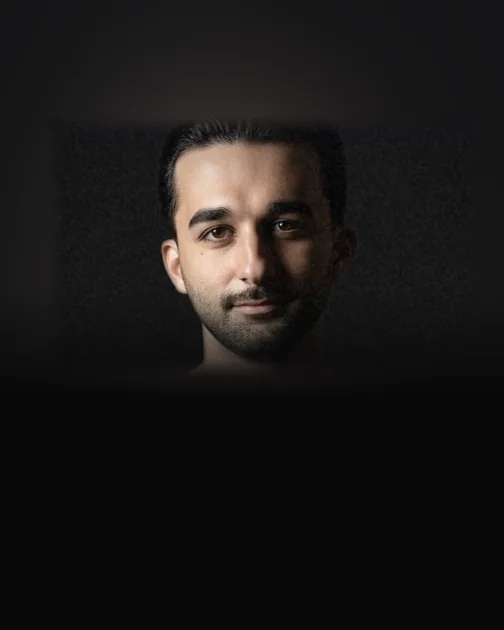
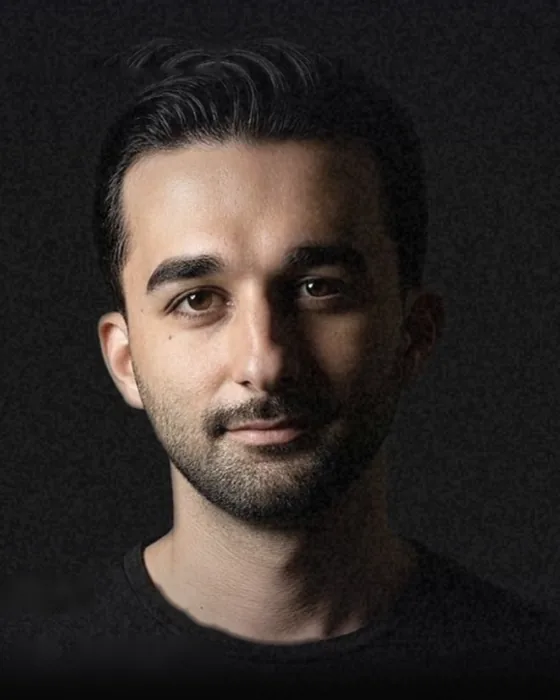
ASMBLY: even lineup portraits in taller 4:5 cards (#19)
* asmbly: recrop cover-based lineup portraits from real photo pixels

Sehun, Wilfred, Robleh, Amir and Geoffrey were framed with a blurred
background extension that showed as a box around a small head. Crop them
inside the clean photo area instead, at one shared head size and crown
position, with a short fade into the card at the bottom. Version the
image URLs so cached copies refresh.

Claude-Session: https://claude.ai/code/session_015vvedEEUJEY2Xconp5SVWz

* asmbly: square lineup cards with one shared portrait framing

The 4:5 card left the cover-based portraits with dark space under the
shoulders. Make the image square and recrop every headshot (Sophie,
Sehun, Wilfred, Andrew, Robleh, Amir, Pursuit Grooves, Alex, Geoffrey)
to the same framing: crown at 7%, chin at 86%, 600px. Scene shots keep
their centre crop.

On screens up to 760px the open bio now covers the whole card, since the
square is too short for it, and the name block fades out behind it.
Between 1001px and 1240px the bio text steps down to 13px so it fits.

Claude-Session: https://claude.ai/code/session_015vvedEEUJEY2Xconp5SVWz

* asmbly: taller 4:5 lineup cards, zoomed-out centred portraits

Back to a 4:5 image with every headshot recropped to one framing: crown
at 10% from the top, chin at 72%, head centred. Sophie, Andrew and
Wilfred get a little extra room because their tilted heads read larger.

The cover-based portraits (Sehun, Wilfred, Robleh, Amir, Geoffrey) need
[…]

Changed region(s): [[0.0, 0.1206, 0.6548, 0.9349], [0.6548, 0.6635, 0.744, 0.8444], [0.625, 0.2413, 0.6845, 0.3619]]

diff --git a/public/asmbly/index.html b/public/asmbly/index.html
@@ -357,7 +357,7 @@
   /* Lineup TBA */
   .lineup { display: grid; grid-template-columns: repeat(4, 1fr); gap: 1px; background: var(--line); border: 1px solid var(--line); }
   .card { background: var(--bg); position: relative; overflow: hidden; }
-  .card__img { aspect-ratio: 4/5; position: relative; overflow: hidden; background: #0a0a0a; }
+  .card__img { aspect-ratio: 4 / 5; position: relative; overflow: hidden; background: #0a0a0a; }
   .card__img img { width: 100%; height: 100%; object-fit: cover; filter: grayscale(1) contrast(1.2) brightness(.55) blur(6px); transform: scale(1.12); transition: filter .7s ease, transform 1.2s ease; }
   .card:hover .card__img img { filter: grayscale(0) contrast(1.1) brightness(.85) blur(0); transform: scale(1.02); }
   .card__img::after { content: ""; position: absolute; inset: 0; background: repeating-linear-gradient(0deg, rgba(0,0,0,.4) 0 2px, transparent 2px 4px); mix-blend-mode: multiply; }
@@ -394,6 +394,15 @@
   .card__role { margin-top: 10px; color: var(--grey); }
   .lineup-note { display: flex; justify-content: space-between; align-items: center; gap: 20px; flex-wrap: wrap; margin-top: 28px; }
   @media (max-width: 1000px) { .lineup { grid-template-columns: repeat(2, 1fr); } }
+  @media (min-width: 1001px) and (max-width: 1240px) { .card__bio { padding: 16px 16px; gap: 8px; } .card__bio p { font-size: 13px; line-height: 1.38; } }
+  /* Narrow screens: the portrait is too short for a bio, so the open bio covers the whole card (photo + name) */
+  @media (max-width: 760px) {
+    .card__img { position: static; }
+    .card__img::after, .card--revealed .card__img::before { inset: 0 0 auto 0; aspect-ratio: 4 / 5; }
+    .card__bio { background: linear-gradient(to top, rgba(5,5,5,.97) 0%, rgba(5,5,5,.94) 50%, rgba(5,5,5,.4) 72%, rgba(5,5,5,0) 88%); }
+    .card__body > * { transition: opacity .3s ease; }
+    .card--revealed:is(.is-active, :has(:focus-visible)) .card__body > * { opacity: 0; }
+  }
   @media (max-width: 480px) { .card__name { font-size: 18px; } .card__body { padding: 14px; } .card__ig { font-size: 11px; letter-spacing: .04em; } .card__bio { padding: 14px 12px; gap: 6px; } .card__bio p { font-size: 12px; line-height: 1.35; } .card__bio span { font-size: 9px; } }
 
   /* Venue horizontal scroll */
@@ -872,18 +881,18 @@ document.addEventListener('click', (e) => {
       <span class="eyebrow">Decrypting soon</span>
     </div>
     <div class="lineup">
-      <article class="card card--revealed"><div class="card__img"><img decoding="async" src="/asmbly/img/sophie-hospes-s.webp" alt="Sophie Hospes" loading="lazy" /><div class="card__bio" aria-hidden="true"><span class="mono">About</span><p>Creative director based in Malmö. Through Studio Sophie Hospes and as Creative Director at New Limit Labs, she builds brand worlds across campaigns, product design and AI-powered creative systems.</p></div></div><div class="card__body"><div class="card__name">Sophie Hospes</div><div class="card__role mono">Speaker · The future of creative work</div><a class="card__ig mono" href="https://www.instagram.com/studiosophiehospes/" target="_blank" rel="noopener" aria-label="Sophie Hospes on Instagram">@studiosophiehospes ↗</a></div></article>
-      <article class="card card--revealed"><div class="card__img"><img decoding="async" src="/asmbly/img/sehun-choi-s.webp" alt="Sehun Choi" loading="lazy" /><div class="card__bio" aria-hidden="true"><span class="mono">About</span><p>Seoul-based artist working with generative AI across image, film and large-scale installation, with work for brands including OpenAI, Samsung and LG Electronics.</p></div></div><div class="card__body"><div class="card__name">Sehun Choi</div><div class="card__role mono">Speaker · Artist talk</div><a class="card__ig mono" href="https://www.instagram.com/se.hunchoi/" target="_blank" rel="noopener" aria-label="Sehun Choi: @se.hunchoi">@se.hunchoi ↗</a></div></article>
-      <article class="card card--revealed"><div class="card__img"><img decoding="async" src="/asmbly/img/wilfred-lee-s.webp" alt="Wilfred Lee" loading="lazy" /><div class="card__bio" aria-hidden="true"><span class="mono">About</span><p>Toronto AI filmmaker, worldbuilder and educator. Founder of Artist's Journey and GenTO, he brings storytelling, generative tools and community together into finished work.</p></div></div><div class="card__body"><div class="card__name">Wilfred Lee</div><div class="card__role mono">Panelist · The future of entertainment</div><a class="card__ig mono" href="https://www.instagram.com/theartistsjourney/" target="_blank" rel="noopener" aria-label="Wilfred Lee on Instagram">@theartistsjourney ↗</a></div></article>
-      <article class="card card--revealed"><div class="card__img"><img decoding="async" src="/asmbly/img/andrew-macdonald-s.webp" alt="Andrew MacDonald" loading="lazy" /><div class="card__bio" aria-hidden="true"><span class="mono">About</span><p>Filmmaker and creative-innovation leader at Cream Productions. As executive creative producer at Dark Half, he leads AI-enabled production and VFX workflows for film and television.</p></div></div><div class="card__body"><div class="card__name">Andrew MacDonald</div><div class="card__role mono">Panelist · Dark Half</div><a class="card__ig mono" href="https://darkhalf.ai/" target="_blank" rel="noopener" aria-label="Andrew MacDonald: darkhalf.ai">darkhalf.ai ↗</a></div></article>
-      <article class="card card--revealed"><div class="card__img"><img decoding="async" src="/asmbly/img/robleh-jama-s.webp" alt="Robleh Jama" loading="lazy" /><div class="card__bio" aria-hidden="true"><span class="mono">About</span><p>Toronto product builder and founder of Tomorrow. A Shopify alum, he co-founded Boom, the camera app for video calls, and founded the app studio Tiny Hearts.</p></div></div><div class="card__body"><div class="card__name">Robleh Jama</div><div class="card__role mono">Panelist · The Builder's Playbook</div><a class="card__ig mono" href="https://x.com/robjama" target="_blank" rel="noopener" aria-label="Robleh Jama: @robjama">@robjama ↗</a></div></article>
-      <article class="card card--revealed"><div class="card__img"><img decoding="async" src="/asmbly/img/amir-mxt-s.webp" alt="Amir MXT" loading="lazy" /><div class="card__bio" aria-hidden="true"><span class="mono">About</span><p>Founder of Humblytics, the simple analytics and A/B testing platform for websites. A product builder focused on shipping fast with small teams and new tools.</p></div></div><div class="card__body"><div class="card__name">Amir MXT</div><div class="card__role mono">Panelist · The Builder's Playbook</div><a class="card__ig mono" href="https://x.com/amirmxt" target="_blank" rel="noopener" aria-label="Amir MXT: @amirmxt">@amirmxt ↗</a></div></article>
+      <article class="card card--revealed"><div class="card__img"><img decoding="async" src="/asmbly/img/sophie-hospes-s.webp?v=5" alt="Sophie Hospes" loading="lazy" /><div class="card__bio" aria-hidden="true"><span class="mono">About</span><p>Creative director based in Malmö. Through Studio Sophie Hospes and as Creative Director at New Limit Labs, she builds brand worlds across campaigns, product design and AI-powered creative systems.</p></div></div><div class="card__body"><div class="card__name">Sophie Hospes</div><div class="card__role mono">Speaker · The future of creative work</div><a class="card__ig mono" href="https://www.instagram.com/studiosophiehospes/" target="_blank" rel="noopener" aria-label="Sophie Hospes on Instagram">@studiosophiehospes ↗</a></div></article>
+      <article class="card card--revealed"><div class="card__img"><img decoding="async" src="/asmbly/img/sehun-choi-s.webp?v=5" alt="Sehun Choi" loading="lazy" /><div class="card__bio" aria-hidden="true"><span class="mono">About</span><p>Seoul-based artist working with generative AI across image, film and large-scale installation, with work for brands including OpenAI, Samsung and LG Electronics.</p></div></div><div class="card__body"><div class="card__name">Sehun Choi</div><div class="card__role mono">Speaker · Artist talk</div><a class="card__ig mono" href="https://www.instagram.com/se.hunchoi/" target="_blank" rel="noopener" aria-label="Sehun Choi: @se.hunchoi">@se.hunchoi ↗</a></div></article>
+      <article class="card card--revealed"><div class="card__img"><img decoding="async" src="/asmbly/img/wilfred-lee-s.webp?v=5" alt="Wilfred Lee" loading="lazy" /><div class="card__bio" aria-hidden="true"><span class="mono">About</span><p>Toronto AI filmmaker, worldbuilder and educator. Founder of Artist's Journey and GenTO, he brings storytelling, generative tools and community together into finished work.</p></div></div><div class="card__body"><div class="card__name">Wilfred Lee</div><div class="card__role mono">Panelist · The future of entertainment</div><a class="card__ig mono" href="https://www.instagram.com/theartistsjourney/" target="_blank" rel="noopener" aria-label="Wilfred Lee on Instagram">@theartistsjourney ↗</a></div></article>
+      <article class="card card--revealed"><div class="card__img"><img decoding="async" src="/asmbly/img/andrew-macdonald-s.webp?v=5" alt="Andrew MacDonald" loading="lazy" /><div class="card__bio" aria-hidden="true"><span class="mono">About</span><p>Filmmaker and creative-innovation leader at Cream Productions. As executive creative producer at Dark Half, he leads AI-enabled production and VFX workflows for film and television.</p></div></div><div class="card__body"><div class="card__name">Andrew MacDonald</div><div class="card__role mono">Panelist · Dark Half</div><a class="card__ig mono" href="https://darkhalf.ai/" target="_blank" rel="noopener" aria-label="Andrew MacDonald: darkhalf.ai">darkhalf.ai ↗</a></div></article>
+      <article class="card card--revealed"><div class="card__img"><img decoding="async" src="/asmbly/img/robleh-jama-s.webp?v=5" alt="Robleh Jama" loading="lazy" /><div class="card__bio" aria-hidden="true"><span class="mono">About</span><p>Toronto product builder and founder of Tomorrow. A Shopify alum, he co-founded Boom, the camera app for video calls, and founded the app studio Tiny Hearts.</p></div></div><div class="card__body"><div class="card__name">Robleh Jama</div><div class="card__role mono">Panelist · The Builder's Playbook</div><a class="card__ig mono" href="https://x.com/robjama" target="_blank" rel="noopener" aria-label="Robleh Jama: @robjama">@robjama ↗</a></div></article>
+      <article class="card card--revealed"><div class="card__img"><img decoding="async" src="/asmbly/img/amir-mxt-s.webp?v=5" alt="Amir MXT" loading="lazy" /><div class="card__bio" aria-hidden="true"><span class="mono">About</span><p>Founder of Humblytics, the simple analytics and A/B testing platform for websites. A product builder focused on shipping fast with small teams and new tools.</p></div></div><div class="card__body"><div class="card__name">Amir MXT</div><div class="card__role mono">Panelist · The Builder's Playbook</div><a class="card__ig mono" href="https://x.com/amirmxt" target="_blank" rel="noopener" aria-label="Amir MXT: @amirmxt">@amirmxt ↗</a></div></article>
       <article class="card card--revealed"><div class="card__img"><img decoding="async" src="/asmbly/img/ali-phi-s.webp" alt="Ali Phi" loading="lazy" /><div class="card__bio" aria-hidden="true"><span class="mono">About</span><p>Tehran-born, Toronto-based computer artist and creative technologist. His live audiovisual sets fuse generative visuals, sound and data, with performances at MUTEK Montréal.</p></div></div><div class="card__body"><div class="card__name">Ali Phi</div><div class="card__role mono">Closing AV performance</div><a class="card__ig mono" href="https://www.instagram.com/ali_phi/" target="_blank" rel="noopener" aria-label="Ali Phi on Instagram">@ali_phi ↗</a></div></article>
       <article class="card card--revealed"><div class="card__img"><img decoding="async" src="/asmbly/img/enna-kim-s.webp" alt="Enna Kim" loading="lazy" /><div class="card__bio" aria-hidden="true"><span class="mono">About</span><p>Korean-Canadian new media artist and VJ working with projection mapping, murals, interactive installation and live performance, from the AGO to MUTEK and Venus Fest.</p></div></div><div class="card__body"><div class="card__name">Enna Kim</div><div class="card__role mono">Exhibiting artist</div><a class="card__ig mono" href="https://www.instagram.com/fongkikid/" target="_blank" rel="noopener" aria-label="Enna Kim on Instagram">@fongkikid ↗</a></div></article>
-      <article class="card card--revealed"><div class="card__img"><img decoding="async" src="/asmbly/img/pursuit-grooves-s.webp" alt="Pursuit Grooves" loading="lazy" /><div class="card__bio" aria-hidden="true"><span class="mono">About</span><p>Toronto producer, vocalist and visual artist Vanese Smith. 16+ albums and EPs on labels like Tectonic and Deepblak, MUTEK stages, and a 2025 Johanna Metcalf Prize finalist.</p></div></div><div class="card__body"><div class="card__name">Pursuit Grooves</div><div class="card__role mono">Opening performance</div><a class="card__ig mono" href="https://www.instagram.com/pursuitgrooves/" target="_blank" rel="noopener" aria-label="Pursuit Grooves: @pursuitgrooves">@pursuitgrooves ↗</a></div></article>
+      <article class="card card--revealed"><div class="card__img"><img decoding="async" src="/asmbly/img/pursuit-grooves-s.webp?v=5" alt="Pursuit Grooves" loading="lazy" /><div class="card__bio" aria-hidden="true"><span class="mono">About</span><p>Toronto producer, vocalist and visual artist Vanese Smith. 16+ albums and EPs on labels like Tectonic and Deepblak, MUTEK stages, and a 2025 Johanna Metcalf Prize finalist.</p></div></div><div class="card__body"><div class="card__name">Pursuit Grooves</div><div class="card__role mono">Opening performance</div><a class="card__ig mono" href="https://www.instagram.com/pursuitgrooves/" target="_blank" rel="noopener" aria-label="Pursuit Grooves: @pursuitgrooves">@pursuitgrooves ↗</a></div></article>
       <article class="card card--revealed"><div class="card__img"><img decoding="async" src="/asmbly/img/pfd-s.webp" alt="Pray First Diva" loading="lazy" /><div class="card__bio" aria-hidden="true"><span class="mono">About</span><p>Toronto digital artist working across visuals, technology and interaction, shown at Intel's Encore AI and InterAccess' flashDRIVE. At ASMBLY: a new interactive sculptural installation.</p></div></div><div class="card__body"><div class="card__name">Pray First Diva</div><div class="card__role mono">Exhibiting artist</div><a class="card__ig mono" href="https://www.instagram.com/prayfirstdiva/" target="_blank" rel="noopener" aria-label="Pray First Diva on Instagram">@prayfirstdiva ↗</a></div></article>
-      <article class="card card--revealed"><div class="card__img"><img decoding="async" src="/asmbly/img/alex-mcleod-s.webp?v=2" alt="Alex McLeod" loading="lazy" /><div class="card__bio" aria-hidden="true"><span class="mono">About</span><p>Toronto artist building digital worlds and playable spaces. At ASMBLY he brings Miros Mirror, a playable installation you can step up to and try for yourself.</p></div></div><div class="card__body"><div class="card__name">Alex McLeod</div><div class="card__role mono">Exhibiting artist</div><a class="card__ig mono" href="https://www.instagram.com/alex_mcleod_/" target="_blank" rel="noopener" aria-label="Alex McLeod on Instagram">@alex_mcleod_ ↗</a></div></article>
-      <article class="card card--revealed"><div class="card__img"><img decoding="async" src="/asmbly/img/geoffrey-pugen-s.webp" alt="Geoffrey Pugen" loading="lazy" /><div class="card__bio" aria-hidden="true"><span class="mono">About</span><p>Toronto video artist whose screen sculptures fold LED screens into architectural forms. A K.M. Hunter Award recipient with work in the BMO and TD collections.</p></div></div><div class="card__body"><div class="card__name">Geoffrey Pugen</div><div class="card__role mono">Exhibiting artist</div><a class="card__ig mono" href="https://www.instagram.com/geoffreypugen/" target="_blank" rel="noopener" aria-label="Geoffrey Pugen on Instagram">@geoffreypugen ↗</a></div></article>
+      <article class="card card--revealed"><div class="card__img"><img decoding="async" src="/asmbly/img/alex-mcleod-s.webp?v=5" alt="Alex McLeod" loading="lazy" /><div class="card__bio" aria-hidden="true"><span class="mono">About</span><p>Toronto artist building digital worlds and playable spaces. At ASMBLY he brings Miros Mirror, a playable installation you can step up to and try for yourself.</p></div></div><div class="card__body"><div class="card__name">Alex McLeod</div><div class="card__role mono">Exhibiting artist</div><a class="card__ig mono" href="https://www.instagram.com/alex_mcleod_/" target="_blank" rel="noopener" aria-label="Alex McLeod on Instagram">@alex_mcleod_ ↗</a></div></article>
+      <article class="card card--revealed"><div class="card__img"><img decoding="async" src="/asmbly/img/geoffrey-pugen-s.webp?v=5" alt="Geoffrey Pugen" loading="lazy" /><div class="card__bio" aria-hidden="true"><span class="mono">About</span><p>Toronto video artist whose screen sculptures fold LED screens into architectural forms. A K.M. Hunter Award recipient with work in the BMO and TD collections.</p></div></div><div class="card__body"><div class="card__name">Geoffrey Pugen</div><div class="card__role mono">Exhibiting artist</div><a class="card__ig mono" href="https://www.instagram.com/geoffreypugen/" target="_blank" rel="noopener" aria-label="Geoffrey Pugen on Instagram">@geoffreypugen ↗</a></div></article>
       <article class="card card--revealed"><div class="card__img"><img decoding="async" src="/asmbly/img/robbot-s.webp" alt="ROBBOT" loading="lazy" /><div class="card__bio" aria-hidden="true"><span class="mono">About</span><p>Toronto artist Robert Rigo, making interactive installations and live visuals. At ASMBLY, ROBBOT brings an interactive artwork to the exhibition floor.</p></div></div><div class="card__body"><div class="card__name">ROBBOT</div><div class="card__role mono">Interactive installation</div><a class="card__ig mono" href="https://www.instagram.com/robbot.5000/" target="_blank" rel="noopener" aria-label="ROBBOT: @robbot.5000">@robbot.5000 ↗</a></div></article>
       <article class="card"><div class="card__img"><img decoding="async" src="/asmbly/img/dr-curtain-s.webp" alt="" loading="lazy" /><span class="card__q">?</span></div><div class="card__body"><div class="card__name" data-scramble="PANELIST">PANELIST</div><div class="card__role mono">The future of entertainment</div></div></article>
       <article class="card"><div class="card__img"><img decoding="async" src="/asmbly/img/art-flower-s.webp" alt="" loading="lazy" /><span class="card__q">?</span></div><div class="card__body"><div class="card__name" data-scramble="PANELIST">PANELIST</div><div class="card__role mono">The future of entertainment</div></div></article>
